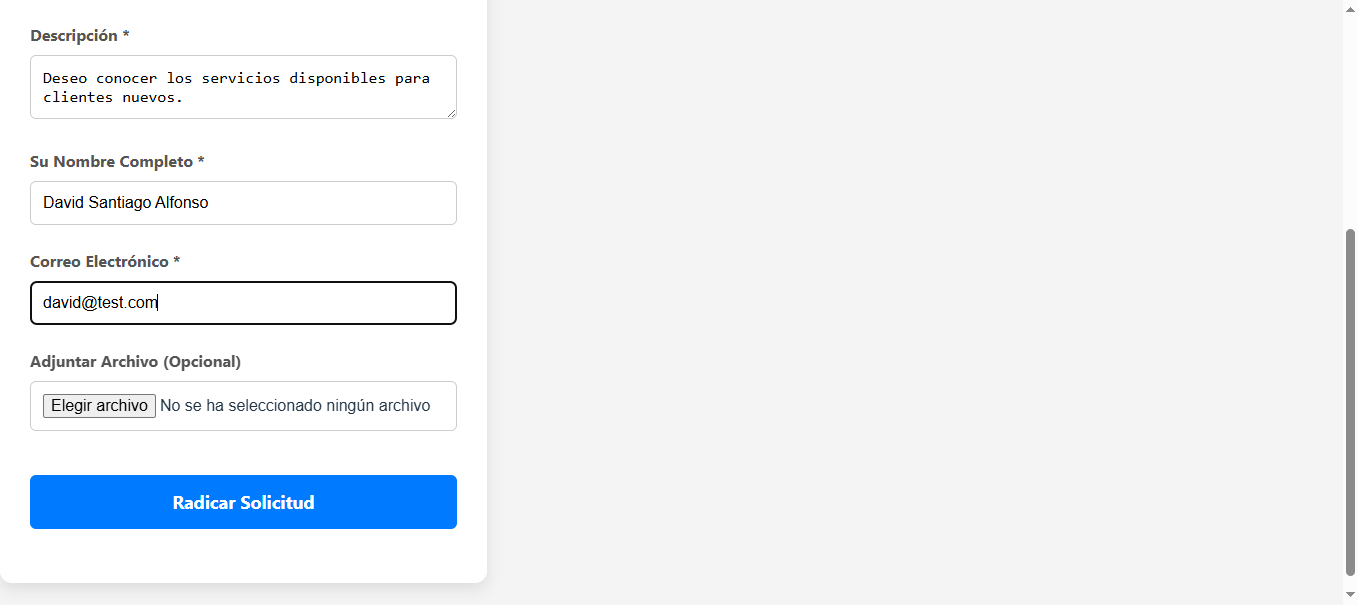
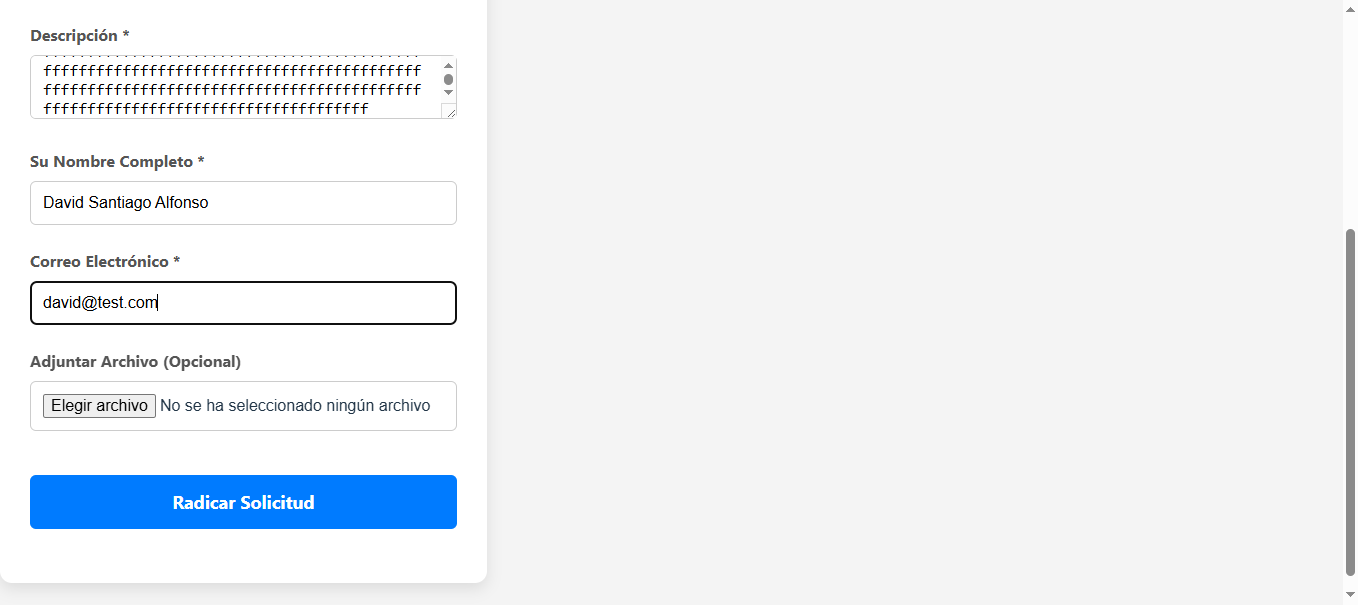
Version test creado #29 de creacion con el campo de descripcion teniendo mas caracteres de los permitidos 15/11/25

Changed region(s): [[0.0309, 0.0893, 0.3402, 0.2083]]

diff --git a/test/pqrs/test_pqr_creacion_descripcion_maximo_queja.py b/test/pqrs/test_pqr_creacion_descripcion_maximo_queja.py
@@ -1,0 +1,60 @@
+# Fecha creacion: 14/11/2025
+# Ultima fecha de modificación: 14/11/2025
+# Autor: David Santiago Alfonso Guzman
+# Descripcion: Este archivo prueba el test case #29 sobre la creacion PQRS, opcion queja , carecteres maximos campo descripcion
+import os
+import time
+import pytest
+from selenium import webdriver
+from selenium.webdriver.edge.options import Options
+from selenium.webdriver.edge.service import Service
+from webdriver_manager.microsoft import EdgeChromiumDriverManager
+from pages.pqrs_page import PQRSPage
+
+
+@pytest.fixture
+def driver():
+    
+    options = Options()
+    options.add_argument("--start-maximized")
+
+    service = Service("C:\\SeleniumDrivers\\edgedriver_win64\\msedgedriver.exe")
+
+    driver = webdriver.Edge(service=service, options=options)
+    yield driver
+    driver.quit()
+
+
+def test_creacion_pqrs_queja_campo_descripcion_maximo_caracteres(driver, request):
+    """Caso #29: Creacion PQRS, opcion queja , carecteres maximos campo descripcion"""
+
+    pqrs = PQRSPage(driver)
+    pqrs.abrir_pagina("http://localhost:5173")
+
+    
+
+    driver.save_screenshot("reportes/01_pagina_cargada.png")
+
+    pqrs.llenar_formulario(
+        tipo="QUEJA",
+        asunto="Solicitud de información de servicios",
+        descripcion="Deseo conocer los servicios disponibles para clientes nuevos. fdsfdsffffffffffffffffffffffffffffffffffffffffffffffffffffffffffffffffffffffffffffffffffffffffffffffffffffffffffffffffffffffffffffffffffffffffffffffffffffffffffffffffffffffffffffffffffffffffffffffffffffffffffffffffffffffffffffffffffffffffffffffffffffffffffffffffffffffffffffffffffffffffffffffffffffffffffffffffffffffffffffffffffffffffffffffffffffffffffffffffffffffffffffffffffffffffffffffffffffffffffffffffffffffffffffffffffffffffffffffffffffffffffffffffffffffffffffffffffffffffffffffffffffffffdsfdsffffffffffffffffffffffffffffffffffffffffffffffffffffffffffffffffffffffffffffffffffffffffffffffffffffffffffffffffffffffffffffffffffffffffffffffffffffffffffffffffffffffffffffffffffffffffffffffffffffffffffffffffffffffffffffffffffffffffffffffffffffffffffffffffffffffffffffffffffffffffffffffffffffffffffffffffffffffffffffffffffffffffffffffffffffffffffffffffffffffffffffffffffffffffffffffffffffffffffffffffffffffffffffffffffffffffffffffffffffffffffffffffffffffffffffffffffffffffffffffffffffffffdsfdsffffffffffffffffffffffffffffffffffffffffffffffffffffffffffffffffffffffffffffffffffffffffffffffffffffffffffffffffffffffffffffffffffffffffffffffffffffffffffffffffffffffffffffffffffffffffffffffffffffffffffffffffffffffffffffffffffffffffffffffffffffffffffffffffffffffffffffffffffffffffffffffffffffffffffffffffffffffffffffffffffffffffffffffffffffffffffffffffffffffffffffffffffffffffffffffffffffffffffffffffffffffffffffffffffffffffffffffffffffffffffffffffffffffffffffffffffffffffffffffffffffffffdsfdsfffffffffffffffffffffffffffffffffffffffffffffffffffffffffffffffffffffffffffffffffffffffffffffffffffffffffffffffffffffffffffffffffffffffffffffffffffffffffffffffffffffffffffffffffffffffffffffffffffffffffffffffffffffffffffffffffffffffffffffffffffffffffffffffffffffffffffffffffffffffffffffffffffffffffffffffffffffffffffffffffffffffffffffffffffffffffffffffffffffffffffffffffffffffffffffffffffffffffffffffffffffffffffffffffffffffffffffffffffffffffffffffffffffffffffffffffffffffffffffffffffffff",
+        nombre="David Santiago Alfonso",
+        email="david@test.com",
+        archivo_path= None
+    )
+    driver.save_screenshot("reportes/02_formulario_lleno.png")
+
+    pqrs.enviar_formulario()
+    time.sleep(3)
+    driver.save_screenshot("reportes/03_envio_realizado.png")
+
+    # Aquí verificamos el mensaje de error
+    mensaje_error = pqrs.obtener_mensaje_error()  # <-- método implementado en PQRSPage
+    driver.save_screenshot("reportes/04_resultado.png")
+
+    # Aserción: debe mostrar un mensaje indicando que el archivo no es válido
+    assert any(
+        texto in mensaje_error.lower()
+        for texto in ["archivo no válido", "formato inválido", "error al radicar la solicitud", "error en archivo"]
+    ), f"Error: No se mostró mensaje de archivo inválido. Texto recibido: {mensaje_error}"
